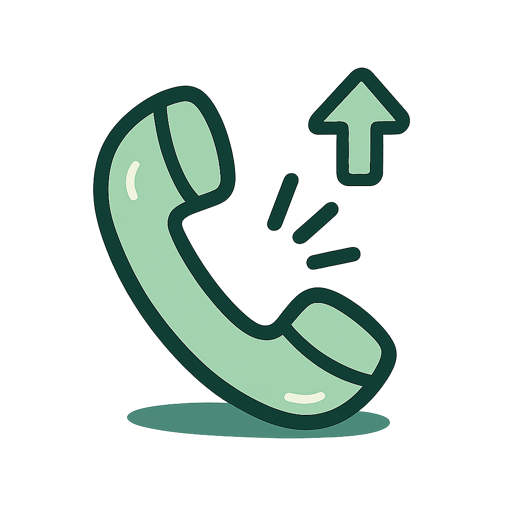
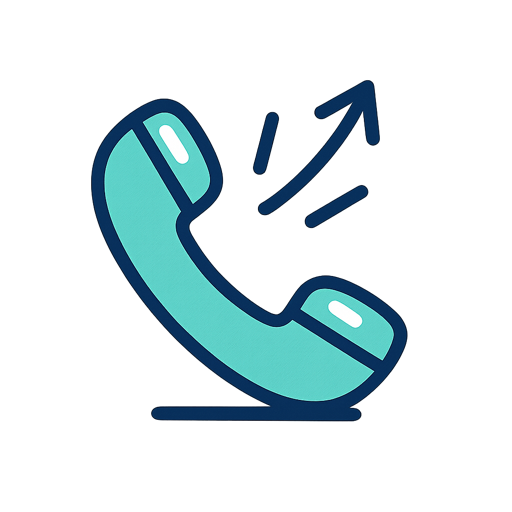
Migrate to new locked palette
Brand     #00E5A0   (was #00C080 via mint-600 alias; brand now binds to mint-400)
BG navy   #0A1628   (unchanged)
Card navy #1E293B   (was navy-700 #0F2030 / navy-600 #0F2744)
Foreground #F8FAFC  (was paper #F9F9F9)
Muted     #94A3B8   (was #4A5568)
Rule      #E2E8F0   (was #E6E6E6)
Danger    #7F1D1D   + danger-bright #FCA5A5 for text on dark
Chart     blue #3B82F6 / green #10B981 / orange #F59E0B / purple #A855F7 / pink #EC4899

Token updates in src/styles/global.css:
- Rebind --color-brand alias from mint-600 -> mint-400 so all CTAs
  pick up the bright mint
- Flip --color-on-brand from white -> navy (white on bright mint
  fails contrast; navy passes 11:1)
- Card surfaces (navy-700) realigned to #1E293B per spec
- Added chart color tokens
- Inside .section-dark, --color-danger overrides to bright variant
  so destructive UI stays legible on navy

Component sweeps:
- FeatureCard / ComparisonCard / ComparisonMatrix: 'text-white' on
  brand bg -> text-[color:var(--color-on-brand)] so navy-on-mint
  applies via token
- ComparisonCard + ScoreBar score-grade zones swapped to chart
  palette (mint -> chart blue -> chart orange -> chart pink)

Illustrations:
- Updated STYLE_LOCK in both scripts/generate-illustrations.py and
  scripts/generate-illustrations.mjs to the new 4-value palette:
  navy outline (#0A1628), brand mint fill (#00E5A0), card-navy
  shadow (#1E293B), almost-white highlights (#F8FAFC). Drops the
  sage-green palette.
[…]

Changed region(s): [[0.1562, 0.1562, 0.8125, 0.875], [0.5, 0.125, 0.8125, 0.5]]

diff --git a/src/styles/global.css b/src/styles/global.css
@@ -1,44 +1,53 @@
 @import "tailwindcss";
 
 @theme {
-  /* === Corporate palette (lifted from consentresolve.com) === */
+  /* === Locked palette (updated 2026-06-02) === */
 
-  /* Brand navy scale (dark sections, text on light) */
-  --color-navy-900: #0a1628;
+  /* Navy scale (backgrounds, cards) */
+  --color-navy-900: #0a1628; /* primary dark bg */
   --color-navy-800: #0d1b2a;
-  --color-navy-700: #0f2030;
-  --color-navy-600: #0f2744;
+  --color-navy-700: #1e293b; /* card / secondary surface */
+  --color-navy-600: #1e293b;
 
-  /* Brand mint scale (accent) */
+  /* Mint scale (brand) */
   --color-mint-300: #00f5b0;
-  --color-mint-400: #00e5a0; /* live-site primary, low-contrast on white */
+  --color-mint-400: #00e5a0; /* brand primary */
   --color-mint-500: #00d090;
-  --color-mint-600: #00c080; /* AA-safe on white for CTAs / text */
+  --color-mint-600: #00c080;
   --color-mint-700: #00a86e;
 
   /* Neutrals */
-  --color-paper: #f9f9f9;
+  --color-paper: #f8fafc;    /* primary light bg / foreground */
   --color-white: #ffffff;
-  --color-ink: #0a1628;
-  --color-ink-2: #2e3a4a;
-  --color-ink-muted: #4a5568;
-  --color-rule: #e6e6e6;
+  --color-foreground: #f8fafc;
+  --color-ink: #0a1628;      /* primary text on light */
+  --color-ink-2: #475569;    /* secondary text on light */
+  --color-ink-muted: #94a3b8;
+  --color-rule: #e2e8f0;
 
   /* Semantic */
-  --color-danger: #ef4444;
+  --color-danger: #7f1d1d;
+  --color-danger-bright: #fca5a5; /* danger text on dark surfaces */
   --color-danger-soft: #fee2e2;
+
+  /* Chart palette */
+  --color-chart-blue:   #3b82f6;
+  --color-chart-green:  #10b981;
+  --color-chart-orange: #f59e0b;
+  --color-chart-purple: #a855f7;
+  --color-chart-pink:   #ec4899;
 
   /* === Semantic aliases consumed by components === */
   --color-bg: var(--color-paper);
   --color-bg-alt: var(--color-white);
   --color-bg-inverse: var(--color-navy-900);
   --color-bg-inverse-alt: var(--color-navy-700);
-  --color-brand: var(--color-mint-600);
+  --color-brand: var(--color-mint-400);
   --color-brand-bright: var(--color-mint-400);
   --color-brand-pressed: var(--color-mint-700);
-  --color-brand-soft: #e6faf3;
-  --color-on-brand: #ffffff;
-  --color-on-inverse: #ffffff;
+  --color-brand-soft: rgba(0, 229, 160, 0.12);
+  --color-on-brand: #0a1628;       /* navy text on bright mint = 11:1 */
+  --color-on-inverse: #f8fafc;
   --color-on-inverse-muted: #94a3b8;
 
   /* Type */
@@ -91,6 +100,7 @@
     --color-bg-alt: var(--color-bg-inverse-alt);
     --color-brand: var(--color-mint-400);
     --color-brand-soft: rgba(0, 229, 160, 0.12);
+    --color-danger: var(--color-danger-bright); /* bright red for visibility on navy */
   }
 }
 

diff --git a/scripts/generate-illustrations.py b/scripts/generate-illustrations.py
@@ -31,19 +31,19 @@ OUT_DIR = ROOT / "public" / "illustrations" / "style"
 STYLE_LOCK = """Minimalist hand-drawn vector illustration of a single subject, centered with
 generous negative space, on a fully transparent background (NOT black, NOT a
 colored fill). Hand-inked marker style: thick, slightly rough, organic outlines
-of even medium-heavy weight in near-black forest green (#14271C), with the
-occasional doubled "ghost" outline stroke for a sketched feel. Flat color fills
-from a tight palette only — primary sage green (#5FB98C), pale mint/celadon
-(#BCE3CB), deep forest green (#1B3A2A), and pure white reserved for inner
-highlights and small curved "shine" strokes. Each major shape casts ONE flat,
-hard-edged offset drop shadow (no blur, no gradient) in a darker green, offset
-slightly down and to the right. Rounded, friendly, organic forms with soft
-corners. Completely flat shading: no gradients, no directional lighting, no
-texture, no 3D. Straight-on 2D perspective. Square 1:1 composition. Friendly,
-trustworthy, approachable tone.
+of even medium-heavy weight in deep navy (#0A1628), with the occasional doubled
+"ghost" outline stroke for a sketched feel. Flat color fills from a strict
+four-value palette only — primary brand mint/cyan (#00E5A0), card navy
+(#1E293B), and almost-white (#F8FAFC) reserved for inner highlights and small
+curved "shine" strokes. Each major shape casts ONE flat, hard-edged offset
+drop shadow (no blur, no gradient) in the card navy (#1E293B), offset slightly
+down and to the right. Rounded, friendly, organic forms with soft corners.
+Completely flat shading: no gradients, no directional lighting, no texture,
+no 3D. Straight-on 2D perspective. Square 1:1 composition. Modern, confident,
+trustworthy tone.
 
 Negative: no black or colored background, no photorealism, no gradients, no
-ambient occlusion, no neon, no colors outside the green palette plus white,
+ambient occlusion, no neon, no colors outside the four-color palette above,
 no lettering or numbers, no eyes / surveillance-camera / spying imagery."""
 
 # === Block B — Subject library ===
